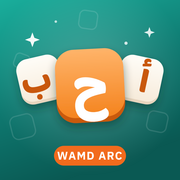
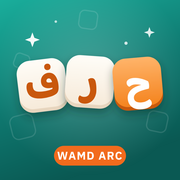
أيقونة حَرف: حجارة «ح ر ف» بدل «أ ح ب»
Claude-Session: https://claude.ai/code/session_01Bt8ZmjB9mT7TVHv3HbWYwn

Changed region(s): [[0.0833, 0.25, 0.9167, 0.7222]]

diff --git a/README.md b/README.md
@@ -41,5 +41,5 @@
 - المحاولات الغلط على الكود محدودة (١٢ كل ١٠ دقائق) والإنشاء (٤٠ بالساعة) لكل IP.
 
 ## الإصدارات
-- **1.1.0** ألوان حَرف الخاصة: رأس أخضر مزرق مثل طاولة اللعب فيه حجارة حروف باهتة، خلفية كريمية، بطاقات بارزة مثل حجارة اللعب، العجلة في بطاقة خضراء، الفايز في رأس الصفحة، وأيقونة جديدة. والسيرفر صار فيه /stats للوحة الإدارة.
+- **1.1.0** ألوان حَرف الخاصة: رأس أخضر مزرق مثل طاولة اللعب فيه حجارة حروف باهتة، خلفية كريمية، بطاقات بارزة مثل حجارة اللعب، العجلة في بطاقة خضراء، الفايز في رأس الصفحة، وأيقونة جديدة بحجارة «ح ر ف». والسيرفر صار فيه /stats للوحة الإدارة.
 - **1.0.0** الإصدار الأول: اللعبة الجماعية بالكود والباركود، العجلة، ستوب!، التصحيح بالتصويت، الوقت الإضافي والكتابة بالصوت، السجل برقم واسم، اللعب على ورقة، الفاتح والداكن.
